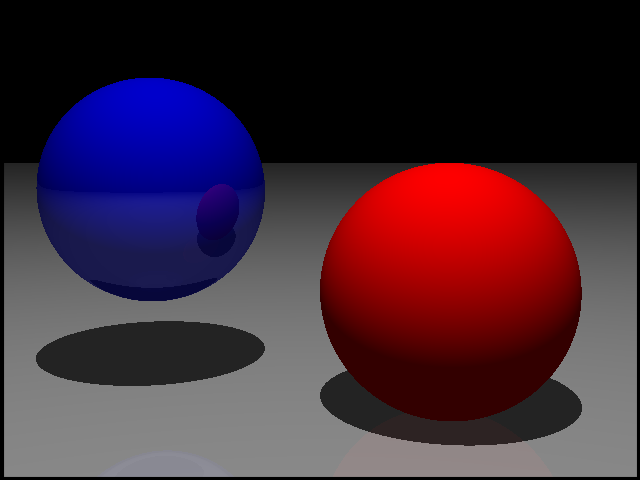
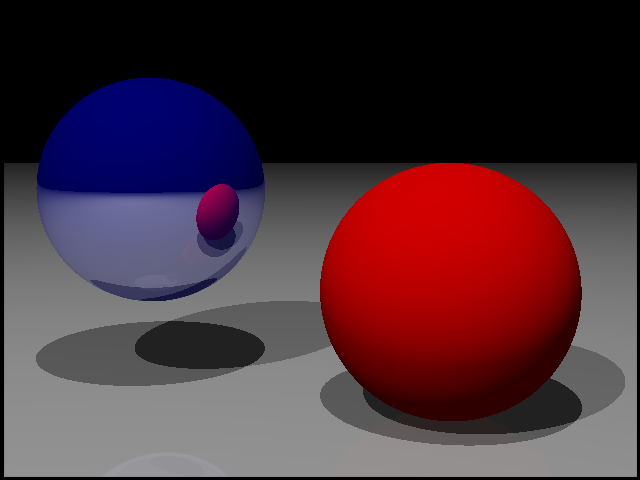
Allow multiple lightsources

diff --git a/object/object.py b/object/object.py
@@ -25,7 +25,7 @@ class Object:
     def transform(self, matrix):
         pass
 
-    def shader(self, p, d, lightsource, object_list, recursion_depth=1):
+    def shader(self, p, d, lightsource_list, object_list, recursion_depth=1):
         normal = self.get_normal(p)
 
         # ambient
@@ -33,12 +33,13 @@ class Object:
 
         # diffuse
         if self.properties.diffuse > 0.0:
-            lightray = Ray(lightsource, p - lightsource)
-            nearest_obstacle, t = get_nearest_obstacle(lightray, object_list)
-            if nearest_obstacle is not None and nearest_obstacle.id == self.id:
-                diffuse_coefficient = -inner(normal, normalize(lightray.direction))
-                diffuse_coefficient = clip(diffuse_coefficient, 0.0, 1.0)
-                color += self.properties.diffuse * diffuse_coefficient * self.properties.color
+            for lightsource in lightsource_list:
+                lightray = Ray(lightsource, p - lightsource)
+                nearest_obstacle, t = get_nearest_obstacle(lightray, object_list)
+                if nearest_obstacle is not None and nearest_obstacle.id == self.id:
+                    diffuse_coefficient = -inner(normal, normalize(lightray.direction))
+                    diffuse_coefficient = clip(diffuse_coefficient, 0.0, 1.0)
+                    color += self.properties.diffuse * diffuse_coefficient * self.properties.color
 
         # reflection
         if self.properties.reflection > 0.0 and Object.max_recursion_depth > recursion_depth:
@@ -46,7 +47,7 @@ class Object:
             obj, t = get_nearest_obstacle(reflection_ray, object_list)
             if obj is not None:
                 reflection_color = obj.shader(reflection_ray(t), reflection_ray.direction, \
-                lightsource, object_list, recursion_depth - 1)
+                lightsource_list, object_list, recursion_depth - 1)
                 color += self.properties.reflection * reflection_color
 
         return color

diff --git a/core/renderer.py b/core/renderer.py
@@ -1,4 +1,4 @@
-from numpy import zeros
+from numpy import exp, ones_like, zeros
 #from numpy.random import rand
 from matplotlib.pyplot import figure, imshow, savefig, subplots_adjust
 
@@ -10,13 +10,15 @@ class Renderer:
         self.rgb_data = zeros((camera.pixels_y, camera.pixels_x, 3), dtype=float)
         #self.rgb_data = rand(camera.pixels_y, camera.pixels_x, 3)
 
-    def __call__(self, lightsource, object_list):
+    def __call__(self, lightsource_list, object_list, photo_exposure=1.0):
         for ray, i, j in self.camera.get_ray_indices():
             obj, t = get_nearest_obstacle(ray, object_list)
             if obj is not None:
-                self.rgb_data[i, j] = obj.shader(ray(t), ray.direction, lightsource, object_list)
+                self.rgb_data[i, j] = obj.shader(ray(t), ray.direction, lightsource_list, object_list)
                 #if max(self.rgb_data[i, j]) > 1.0 or min(self.rgb_data[i, j]) < 0.0:
                 #    print(self.rgb_data[i, j], i, j)
+        if photo_exposure > 0.0:
+            self.rgb_data[:, :] = ones_like(self.rgb_data[:, :]) - exp(-self.rgb_data[:, :] * photo_exposure)
 
     def save_image(self, filename):
         x = self.camera.pixels_x

diff --git a/main.py b/main.py
@@ -11,16 +11,19 @@ renderer = Renderer(camera)
 
 objects = []
 
-properties = Properties(array([1.0, 0.0, 0.0]), 0.2, 0.8, 0.0)
+lightsource_list = [array([0.0, 0.0, 10.0]), array([-5.0, 5.0, 10.0])]
+
+red = array([1.0, 0.0, 0.0])
+properties = Properties(red, 0.2, 0.8, 0.0)
 objects.append(Sphere(array([5.0, -1.0, 0.0]), 1.0, properties))
 
-properties = Properties(array([0.0, 0.0, 1.0]), 0.2, 0.6, 0.2)
+blue = array([0.0, 0.0, 1.0])
+properties = Properties(blue, 0.2, 0.2, 0.6)
 objects.append(Sphere(array([6.0, 1.5, 0.75]), 1.0, properties))
 
-properties = Properties(array([0.7, 0.7, 0.7]), 0.2, 0.6, 0.2)
+gray = array([0.7, 0.7, 0.7])
+properties = Properties(gray, 0.2, 0.6, 0.2)
 objects.append(Plane(array([0.0, 0.0, 1.0]), 1.0, properties))
 
-lightsource = array([0.0, 0.0, 10.0])
-
-renderer(lightsource, objects)
+renderer(lightsource_list, objects)
 renderer.save_image("image.png")
